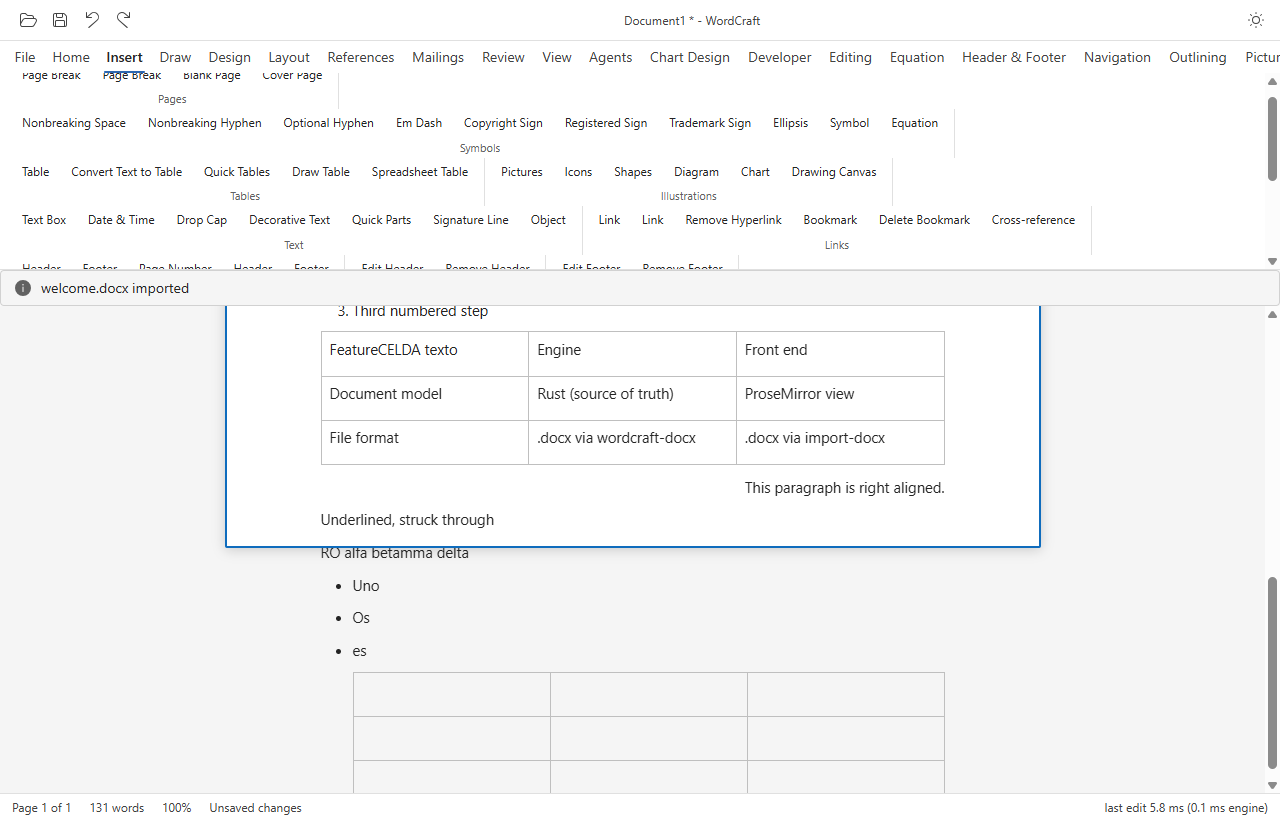
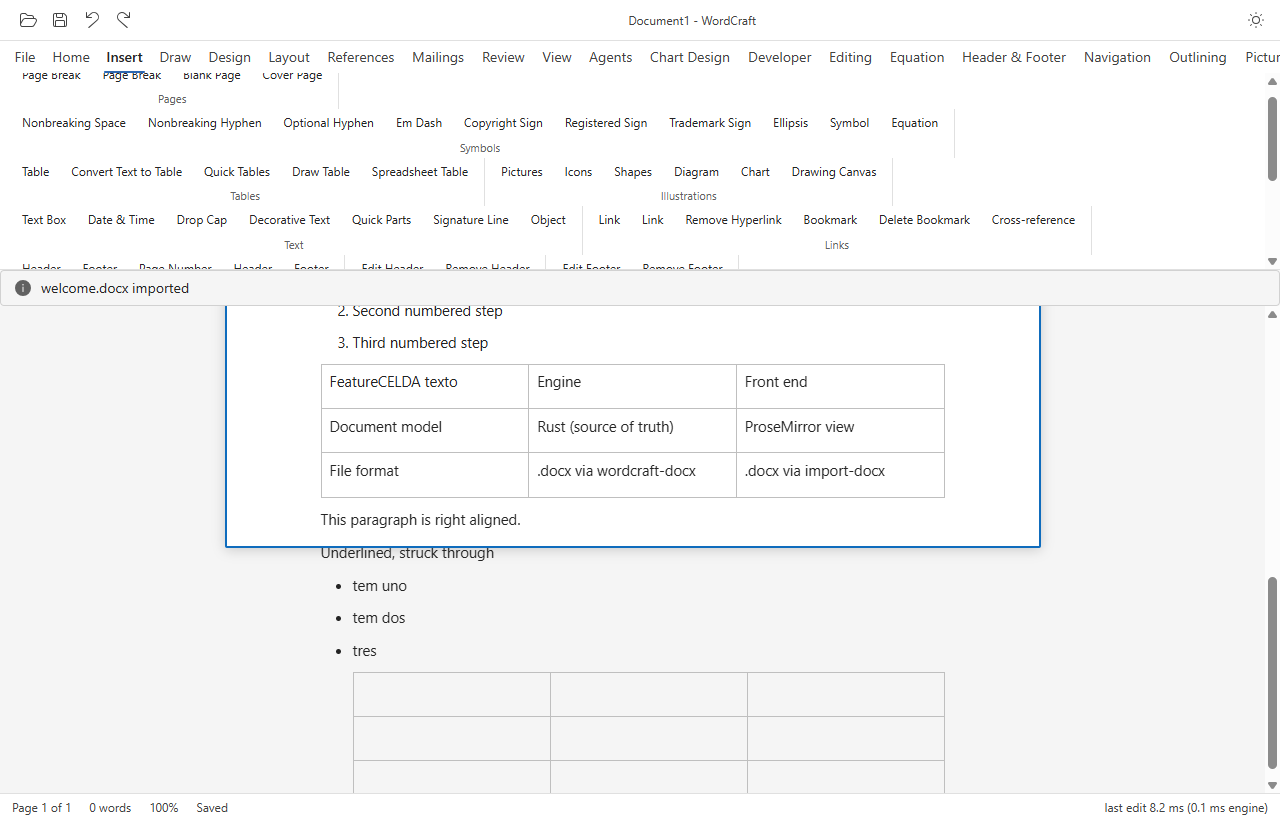
feat(sync): the engine serialises its document; the view is rebuilt from it
Adds the piece that makes the engine the document of record rather than a mirror
of the view.

Engine side: project_structure walks the canonical document and returns it as a
tree — paragraphs, headings, lists (grouped from consecutive numbered
paragraphs) and tables with their cells and the paragraphs inside them, each
carrying its runs. sync_apply takes a structural flag and, when it is set,
answers with that whole structure plus the new block paths and the caret, all
taken at the same instant.

Front end: serialize.ts turns that tree back into a ProseMirror document. After
a structural edit the view is replaced with it in one transaction and the caret
is restored through the path the engine reported. The previous approach — read
the paths again afterwards — left a window in which the blocks had moved and the
view still held the old indices.

Interrupting that window is still possible: characters typed between the
structural operation and its reply are applied optimistically to the view and
then discarded by the rebuild, because the engine never saw them. The engine
still ends up short: 'PRIMERO' arrives as 'RIMERO' and 'SEGUNDO' as 'SNDO'. The
rebuild is correct; what is missing is a rebase of the transactions that were in
flight while it happened.

Checks: 8 of 12 pass. importLandsComplete, importReachesEngine,
tableCellIsEngineParagraph, cellTextInEngine, engineSawSplit, listInView,
tableInView stay green. The four text-fidelity checks still fail, now solely
[…]

diff --git a/apps/wordcraft-tauri/src/editor/DocxEditor.tsx b/apps/wordcraft-tauri/src/editor/DocxEditor.tsx
@@ -1,19 +1,20 @@
 import { useCallback, useEffect, useMemo, useRef, useState } from "react";
 import { ProseMirror, useEditorEffect } from "@nytimes/react-prosemirror";
-import { EditorState, Selection } from "prosemirror-state";
+import { EditorState, Selection, TextSelection } from "prosemirror-state";
 import type { Transaction } from "prosemirror-state";
 import type { EditorView } from "prosemirror-view";
 import { baseKeymap, toggleMark } from "prosemirror-commands";
 import { keymap } from "prosemirror-keymap";
 import { tableEditing } from "prosemirror-tables";
 import { syncApply, syncLoad, syncSnapshot } from "../bridge/sync";
-import type { BlockOut, SyncOp } from "../bridge/sync";
+import type { BlockOut, ProjectedBlock, SyncOp } from "../bridge/sync";
 import { isTauri } from "../bridge/engine";
 import { wordcraftSchema } from "./schema";
 import { normalizeDocxJson } from "./normalize";
 import { blockAt, pathKey } from "./blocks";
 import { blockRuns, runsToFragment, sameRuns } from "./runs";
 import { buildSeed, textblockCount } from "./seed";
+import { structureToDoc } from "./serialize";
 import { translateTransaction } from "./translate";
 
 /** What the surrounding shell can do to the editor. Held in a ref so it never forces a render. */
@@ -128,22 +129,33 @@ export function DocxEditor({ apiRef, onUnsupported, onSynced }: DocxEditorProps)
     [apiRef, onUnsupported],
   );
 
-  /** Re-read the engine's block paths and projection. Structure moved, the document did not. */
-  const refreshPaths = useCallback(async () => {
-    const view = apiRef.current.view;
-    if (!view || !isTauri()) return;
-    try {
-      const snapshot = await syncSnapshot();
-      if (snapshot.blocks.length !== textblockCount(view.state.doc)) {
-        onUnsupported?.(`the engine has ${snapshot.blocks.length} paragraphs, the view ${textblockCount(view.state.doc)}`);
-        return;
+  /**
+   * Rebuild the view from the engine's document after a structural edit.
+   *
+   * The engine has already applied the change to its own document, and its answer carries that
+   * document, the new block paths and the caret — all from the same instant. Rebuilding from this
+   * reply means the view is never corrected against indices that have already moved.
+   */
+  const rebuildFromEngine = useCallback(
+    (structure: ProjectedBlock[], newPaths: number[][], caret?: { path: number[]; offset: number }) => {
+      const view = apiRef.current.view;
+      if (!view) return;
+      const doc = structureToDoc(structure);
+      const tr = view.state.tr.replaceWith(0, view.state.doc.content.size, doc.content);
+      paths.current = newPaths;
+      if (caret) {
+        const ordinal = newPaths.findIndex((path) => pathKey(path) === pathKey(caret.path));
+        const target = ordinal >= 0 ? blockAt(tr.doc, ordinal) : null;
+        if (target) {
+          const inside = Math.min(caret.offset, target.node.content.size);
+          tr.setSelection(TextSelection.create(tr.doc, target.start + inside));
+        }
       }
-      paths.current = snapshot.blocks.map((block) => block.path);
-      reconcile(snapshot.blocks);
-    } catch (problem) {
-      onUnsupported?.(String(problem));
-    }
-  }, [apiRef, reconcile, onUnsupported]);
+      tr.setMeta("engineSync", true);
+      view.dispatch(tr);
+    },
+    [apiRef],
+  );
 
   const scheduleSnapshot = useCallback(() => {
     if (snapshotTimer.current) clearTimeout(snapshotTimer.current);
@@ -167,13 +179,16 @@ export function DocxEditor({ apiRef, onUnsupported, onSynced }: DocxEditorProps)
     syncing.current = true;
     const started = performance.now();
     try {
-      const delta = await syncApply(ops);
-      onSynced?.({ roundTripMs: performance.now() - started, engineMs: delta.micros / 1000, ops: ops.length });
+      const delta = await syncApply(ops, structural);
+      const roundTripMs = performance.now() - started;
+      onSynced?.({ roundTripMs, engineMs: delta.micros / 1000, ops: ops.length });
       window.__wcSyncSamples = window.__wcSyncSamples ?? [];
-      window.__wcSyncSamples.push({ roundTripMs: performance.now() - started, engineMs: delta.micros / 1000, ops: ops.length });
-      // A structural operation renumbers the blocks, so the paths are re-read from the engine
-      // rather than the document being rebuilt.
-      if (structural) await refreshPaths();
+      window.__wcSyncSamples.push({ roundTripMs, engineMs: delta.micros / 1000, ops: ops.length });
+      // A structural change renumbers the blocks, so the view is rebuilt from the engine's answer
+      // in this same reply rather than patched against stale indices.
+      if (structural && delta.structure && delta.paths) {
+        rebuildFromEngine(delta.structure, delta.paths, delta.caret);
+      }
     } catch (problem) {
       onUnsupported?.(String(problem));
     } finally {
@@ -187,7 +202,7 @@ export function DocxEditor({ apiRef, onUnsupported, onSynced }: DocxEditorProps)
         scheduleSnapshot();
       }
     }
-  }, [onSynced, onUnsupported, refreshPaths, scheduleSnapshot]);
+  }, [onSynced, onUnsupported, rebuildFromEngine, scheduleSnapshot]);
 
   const enqueue = useCallback(
     (ops: SyncOp[], structural: boolean) => {

diff --git a/apps/wordcraft-tauri/src/editor/serialize.ts b/apps/wordcraft-tauri/src/editor/serialize.ts
@@ -1,0 +1,48 @@
+import type { Node as PMNode } from "prosemirror-model";
+import type { ProjectedBlock, RunOut } from "../bridge/sync";
+import { wordcraftSchema } from "./schema";
+import { runsToFragment } from "./runs";
+
+/**
+ * Turns the engine's document tree back into a ProseMirror document.
+ *
+ * This is the inverse of `seed.ts`: the engine owns the document, and after a structural edit the
+ * view is rebuilt from it rather than being corrected block by block. That is what removes the
+ * window in which block indices had moved but the view still held the old ones.
+ */
+export function structureToDoc(blocks: ProjectedBlock[]): PMNode {
+  const nodes = blocks.map(toNode).filter((node): node is PMNode => node !== null);
+  return wordcraftSchema.node("doc", null, nodes.length ? nodes : [wordcraftSchema.node("paragraph")]);
+}
+
+function textblock(nodeName: "paragraph", runs: RunOut[]): PMNode {
+  return wordcraftSchema.nodes[nodeName].create(null, runsToFragment(runs));
+}
+
+function toNode(block: ProjectedBlock): PMNode | null {
+  const { nodes } = wordcraftSchema;
+  switch (block.kind) {
+    case "para":
+      return textblock("paragraph", block.runs);
+    case "heading":
+      return nodes.heading.create({ level: Math.min(6, Math.max(1, Number(block.level) || 1)) }, runsToFragment(block.runs));
+    case "list": {
+      const listType = block.ordered ? nodes.orderedList : nodes.bulletList;
+      const items = block.items.map((runs) => nodes.listItem.create(null, textblock("paragraph", runs)));
+      return listType.create(null, items.length ? items : [nodes.listItem.create(null, textblock("paragraph", []))]);
+    }
+    case "table": {
+      const rows = block.rows.map((row) => {
+        const cells = row.map((paragraphs) => {
+          const content = paragraphs.map((runs) => textblock("paragraph", runs));
+          return nodes.table_cell.create(null, content.length ? content : [textblock("paragraph", [])]);
+        });
+        return nodes.table_row.create(null, cells);
+      });
+      if (!rows.length) return null;
+      return nodes.table.create(null, rows);
+    }
+    default:
+      return null;
+  }
+}

diff --git a/apps/wordcraft-tauri/src/bridge/sync.ts b/apps/wordcraft-tauri/src/bridge/sync.ts
@@ -44,16 +44,30 @@ export interface Projection {
   micros: number;
 }
 
+/** The document as a tree: what the view needs to be rebuilt after a structural change. */
+export type ProjectedBlock =
+  | { kind: "para"; runs: RunOut[] }
+  | { kind: "heading"; level: number; runs: RunOut[] }
+  | { kind: "list"; ordered: boolean; items: RunOut[][] }
+  | { kind: "table"; rows: RunOut[][][][] };
+
 export interface SyncDelta {
   blocks: BlockOut[];
   micros: number;
+  /** Present when the edit was structural: the whole document, its block paths and the caret. */
+  structure?: ProjectedBlock[];
+  paths?: number[][];
+  caret?: { path: number[]; offset: number };
 }
 
 /** Seed the canonical document from the blocks the front end describes. */
 export const syncLoad = (blocks: SeedBlock[]) => invoke<Projection>("sync_load", { blocks });
 
-/** Apply a batch of edits; the answer carries only the blocks that changed. */
-export const syncApply = (ops: SyncOp[]) => invoke<SyncDelta>("sync_apply", { ops });
+/**
+ * Apply a batch of edits. A content edit answers with only the blocks that changed; a structural
+ * one answers with the whole document, so the view is rebuilt from the engine in the same reply.
+ */
+export const syncApply = (ops: SyncOp[], structural = false) => invoke<SyncDelta>("sync_apply", { ops, structural });
 
 /** The engine's whole projection, for correcting the view after an engine-only command. */
 export const syncSnapshot = () => invoke<Projection>("sync_snapshot", {});

diff --git a/apps/wordcraft-tauri/src-tauri/src/sync.rs b/apps/wordcraft-tauri/src-tauri/src/sync.rs
@@ -19,7 +19,7 @@ use std::collections::BTreeSet;
 use std::sync::Arc;
 use std::time::Instant;
 
-use serde::Deserialize;
+use serde::{Deserialize, Serialize};
 use serde_json::{json, Value};
 use wordcraft_doc::props::{CharProps, NumRef};
 use wordcraft_doc::table::{Cell, Row, Table};
@@ -60,13 +60,123 @@ pub struct BlockOut {
     pub runs: Vec<RunOut>,
 }
 
-#[derive(Clone, Debug)]
+#[derive(Clone, Debug, Serialize)]
+#[serde(rename_all = "camelCase")]
 pub struct RunOut {
     pub text: String,
     pub bold: bool,
     pub italic: bool,
     pub underline: bool,
     pub strike: bool,
+}
+
+/// The document as a tree, which is what the front end needs to rebuild the view.
+///
+/// The flat path projection is enough for incremental edits, but a structural change adds or
+/// removes paragraphs, and the view cannot be corrected without knowing what the document now
+/// looks like: which paragraphs are headings, which belong to a list, how a table is shaped.
+#[derive(Clone, Debug, Serialize)]
+#[serde(tag = "kind", rename_all = "camelCase")]
+pub enum ProjectedBlock {
+    Para { runs: Vec<RunOut> },
+    Heading { level: u8, runs: Vec<RunOut> },
+    List { ordered: bool, items: Vec<Vec<RunOut>> },
+    Table { rows: Vec<Vec<Vec<Vec<RunOut>>>> },
+}
+
+/// Runs of one paragraph.
+fn runs_of(para: &Paragraph) -> Vec<RunOut> {
+    let mut runs: Vec<RunOut> = Vec::new();
+    let mut start = 0usize;
+    for run in &para.runs {
+        let end = floor_char_boundary(&para.text, start.saturating_add(run.len));
+        if end > start {
+            if let Some(text) = para.text.get(start..end) {
+                if !text.is_empty() {
+                    let props = &run.props;
+                    runs.push(RunOut {
+                        text: text.to_string(),
+                        bold: props.bold == Some(true),
+                        italic: props.italic == Some(true),
+                        underline: props.underline.is_some(),
+                        strike: props.strike == Some(true) || props.double_strike == Some(true),
+                    });
+                }
+            }
+        }
+        start = end;
+    }
+    if start < para.text.len() {
+        if let Some(rest) = para.text.get(floor_char_boundary(&para.text, start)..) {
+            if !rest.is_empty() {
+                runs.push(RunOut { text: rest.to_string(), bold: false, italic: false, underline: false, strike: false });
+            }
+        }
+    }
+    runs
+}
+
+/// The engine's document as a tree the front end can turn back into an editor document.
+///
+/// Consecutive numbered paragraphs are grouped into a list, as OOXML stores them; a paragraph with
+/// an outline level is a heading; a table keeps its rows, cells and the paragraphs inside them.
+pub fn project_structure(doc: &Document) -> Vec<ProjectedBlock> {
+    let mut out: Vec<ProjectedBlock> = Vec::new();
+    let Some(blocks) = doc.story(StoryRef::Body) else { return out };
+
+    // Numbering ids 1 and 2 are what the seed writes for bullets and numbers.
+    let mut open_list: Option<(bool, Vec<Vec<RunOut>>)> = None;
+    let flush = |open: &mut Option<(bool, Vec<Vec<RunOut>>)>, out: &mut Vec<ProjectedBlock>| {
+        if let Some((ordered, items)) = open.take() {
+            if !items.is_empty() {
+                out.push(ProjectedBlock::List { ordered, items });
+            }
+        }
+    };
+
+    for block in blocks.iter() {
+        match &**block {
+            Block::Para(para) => {
+                if let Some(num) = para.props.numbering {
+                    let ordered = num.num == 2;
+                    match &mut open_list {
+                        Some((open_ordered, items)) if *open_ordered == ordered => items.push(runs_of(para)),
+                        Some(_) => {
+                            flush(&mut open_list, &mut out);
+                            open_list = Some((ordered, vec![runs_of(para)]));
+                        }
+                        None => open_list = Some((ordered, vec![runs_of(para)])),
+                    }
+                    continue;
+                }
+                flush(&mut open_list, &mut out);
+                match para.props.outline_level {
+                    Some(level) => out.push(ProjectedBlock::Heading { level: level.saturating_add(1).clamp(1, 9), runs: runs_of(para) }),
+                    None => out.push(ProjectedBlock::Para { runs: runs_of(para) }),
+                }
+            }
+            Block::Table(table) => {
+                flush(&mut open_list, &mut out);
+                let mut rows = Vec::with_capacity(table.rows.len());
+                for row in &table.rows {
+                    let mut cells = Vec::with_capacity(row.cells.len());
+                    for cell in &row.cells {
+                        let mut paragraphs = Vec::new();
+                        for inner in cell.blocks.iter() {
+                            if let Block::Para(p) = &**inner {
+                                paragraphs.push(runs_of(p));
+                            }
+                        }
+                        cells.push(paragraphs);
+                    }
+                    rows.push(cells);
+                }
+                out.push(ProjectedBlock::Table { rows });
+            }
+        }
+    }
+    flush(&mut open_list, &mut out);
+    out
 }
 
 impl BlockOut {
@@ -355,12 +465,36 @@ pub fn sync_load(state: tauri::State<'_, AppState>, blocks: Vec<SeedBlock>) -> R
     Ok(json!({ "blocks": projected, "micros": started.elapsed().as_micros() as u64 }))
 }
 
-/// Apply a batch of operations and return only what changed.
+/// Apply a batch of operations and return what changed.
+///
+/// When `structural` is set the document gained or lost a block, so the flat delta is useless to
+/// the view: the answer carries the whole structure, the new block paths and the caret, and the
+/// front end rebuilds from that in the same reply. Nothing is read afterwards, so there is no
+/// window where the view holds stale indices.
 #[tauri::command]
-pub fn sync_apply(state: tauri::State<'_, AppState>, ops: Vec<SyncOp>) -> Result<Value, String> {
+pub fn sync_apply(state: tauri::State<'_, AppState>, ops: Vec<SyncOp>, structural: Option<bool>) -> Result<Value, String> {
     let mut session = state.session.lock().map_err(|_| lock_error())?;
     let result = apply_ops(&mut session, &ops)?;
     let projected: Vec<Value> = result.blocks.iter().map(BlockOut::to_json).collect();
+    if structural.unwrap_or(false) {
+        let caret = {
+            let focus = session.sel.focus.clone();
+            let offset = session
+                .doc
+                .para(StoryRef::Body, &focus.path)
+                .map_or(0, |p| byte_to_utf16(&p.text, focus.off));
+            json!({ "path": focus.path.0, "offset": offset })
+        };
+        let structure = project_structure(&session.doc);
+        let paths: Vec<Vec<u32>> = project_all(&session.doc).into_iter().map(|b| b.path).collect();
+        return Ok(json!({
+            "blocks": projected,
+            "micros": result.micros,
+            "structure": structure,
+            "paths": paths,
+            "caret": caret,
+        }));
+    }
     Ok(json!({ "blocks": projected, "micros": result.micros }))
 }
 
